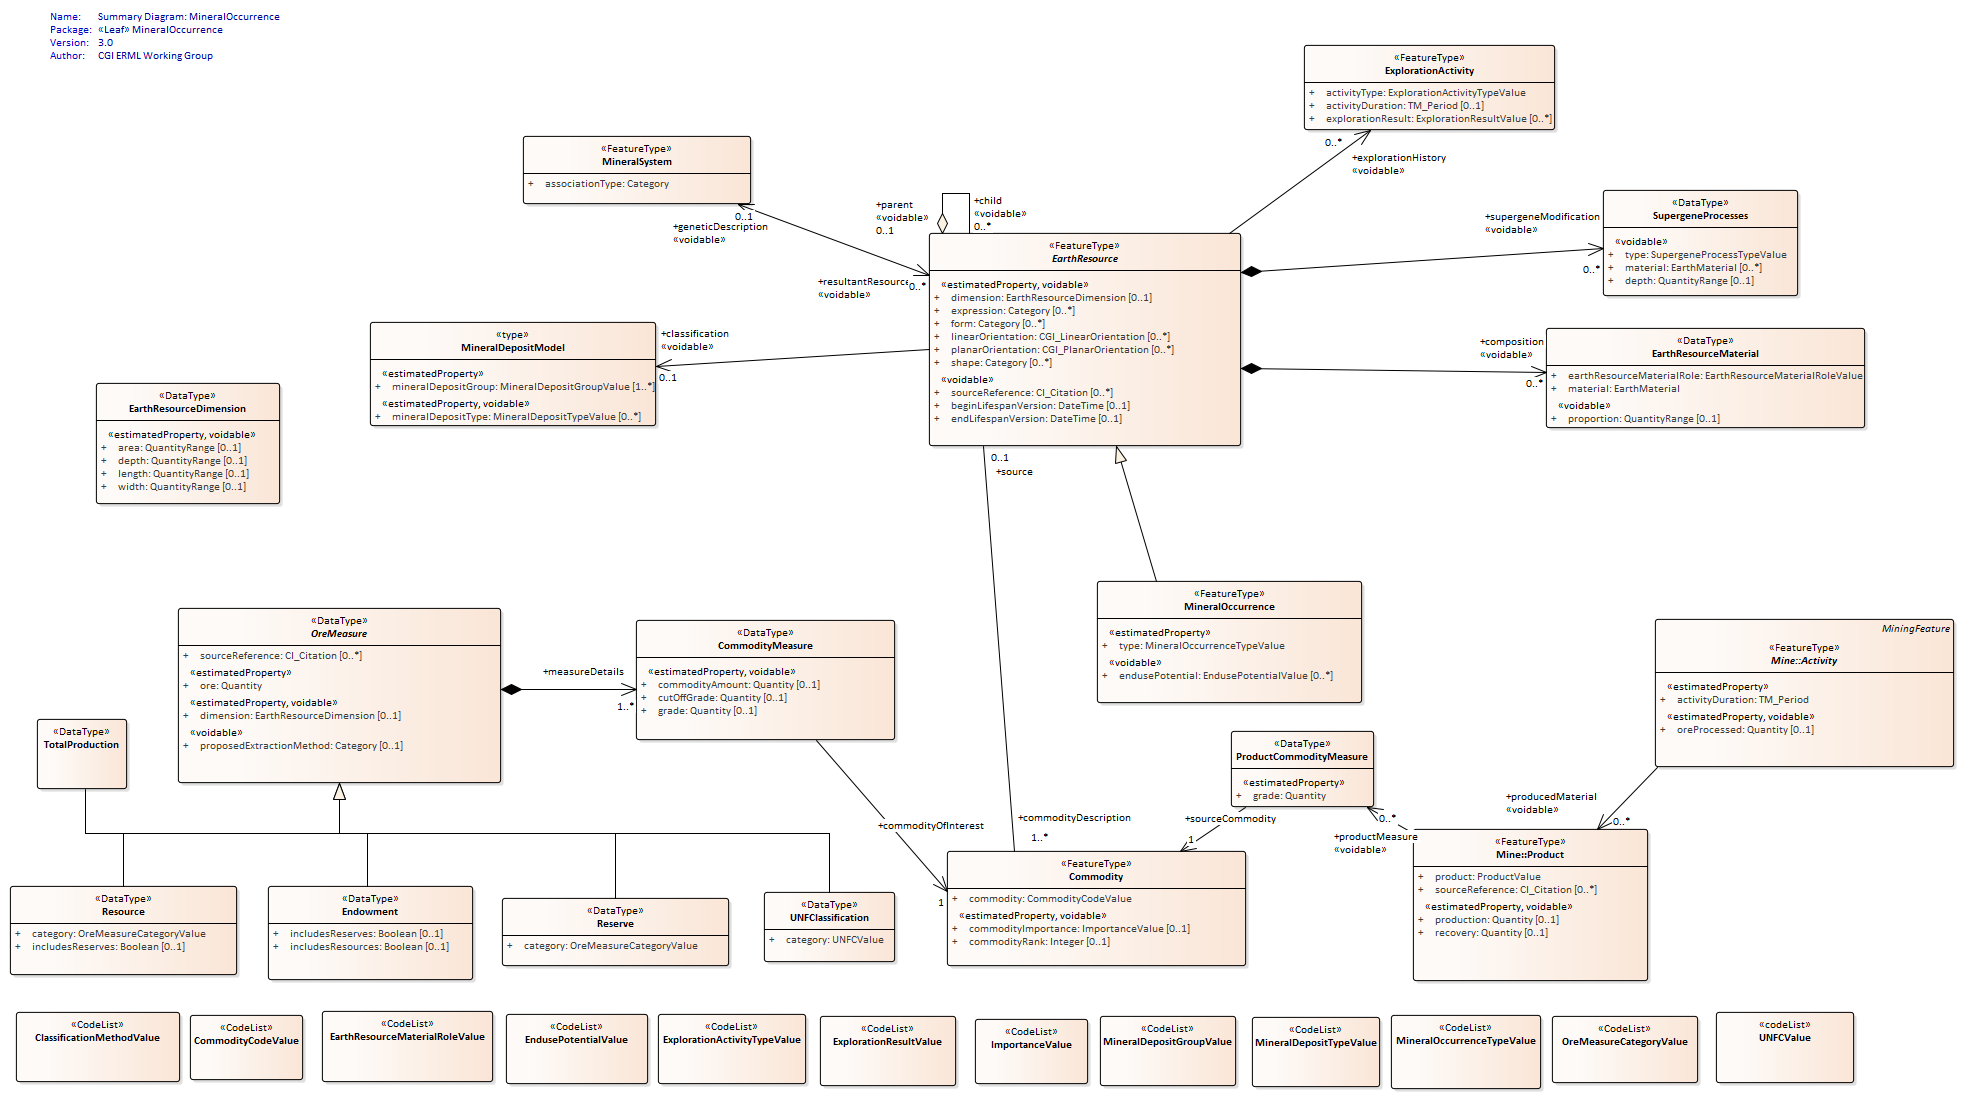
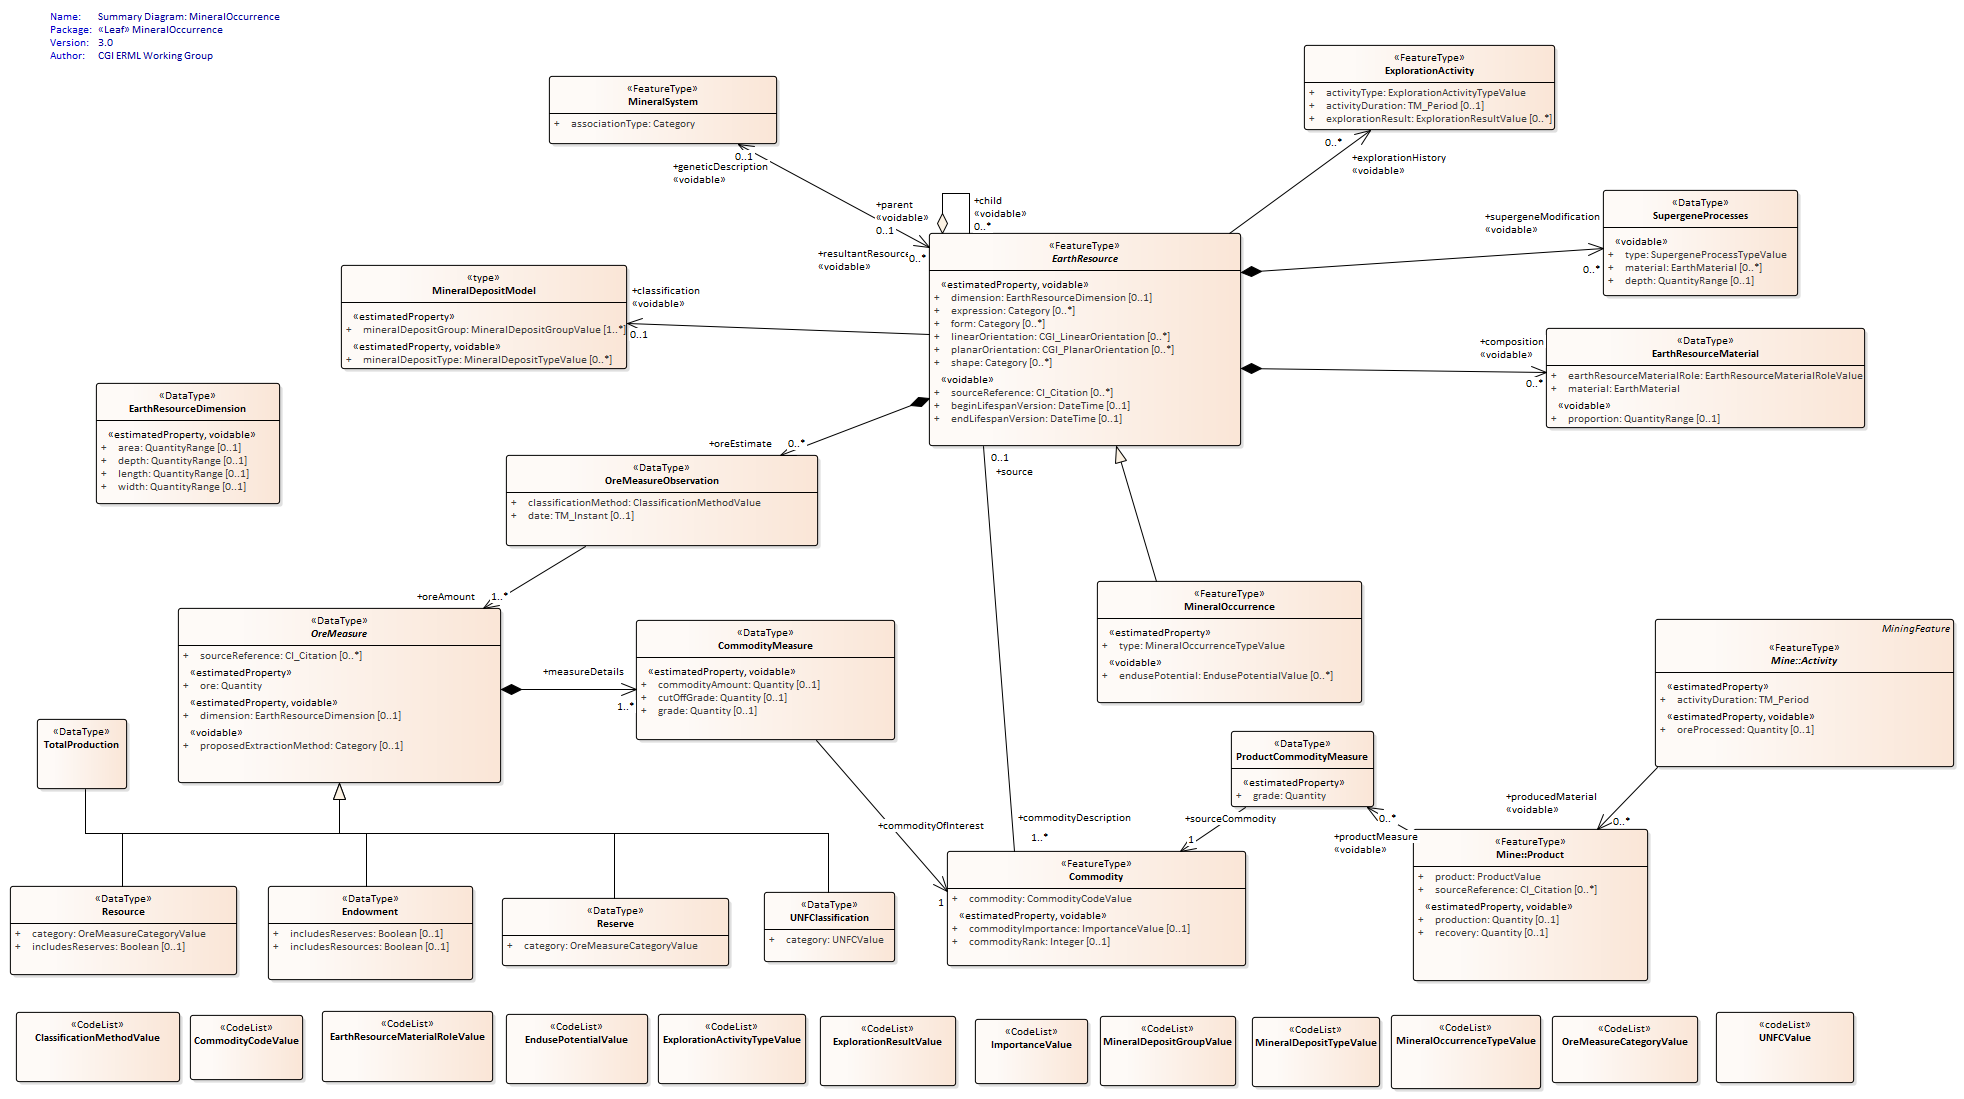
Add OreMeasureObservation to summary diagram for documentation
git-svn-id: https://svnserv.csiro.au/svn/ext/xmml/GGIC@2833 8f638a70-d4da-0310-89f2-e0c20b8c11d7

diff --git a/trunk/doc/ERML_3_Doc/EARoot/EA2/EA87.htm b/trunk/doc/ERML_3_Doc/EARoot/EA2/EA87.htm
@@ -36,6 +36,7 @@ function nameClassifier(name, separator)
 <img src="EA88.png" usemap="#EA88" border="0" />
 
 <MAP NAME="EA88">
+<area shape="rect" coords="506,455,818,546" href="EA101.htm" target="_self">
 <area shape="rect" coords="37,719,127,789" href="EA106.htm" target="_self">
 <area shape="rect" coords="1231,731,1374,807" href="EA102.htm" target="_self">
 <area shape="rect" coords="1603,190,1798,296" href="EA105.htm" target="_self">
@@ -53,8 +54,8 @@ function nameClassifier(name, separator)
 <area shape="rect" coords="636,620,895,740" href="EA96.htm" target="_self">
 <area shape="rect" coords="178,608,501,783" href="EA100.htm" target="_self">
 <area shape="rect" coords="96,383,280,504" href="EA97.htm" target="_self">
-<area shape="rect" coords="370,322,656,426" href="EA108.htm" target="_self">
-<area shape="rect" coords="523,136,751,204" href="EA95.htm" target="_self">
+<area shape="rect" coords="341,265,627,369" href="EA108.htm" target="_self">
+<area shape="rect" coords="549,76,777,144" href="EA95.htm" target="_self">
 <area shape="rect" coords="929,233,1241,446" href="EA92.htm" target="_self">
 <area shape="rect" coords="764,892,895,962" href="EA107.htm" target="_self">
 <area shape="rect" coords="1716,1012,1854,1083" href="EA120.htm" target="_self">
@@ -77,7 +78,7 @@ function nameClassifier(name, separator)
 		</tr>
 		<tr>
 			<td width="15%" class="ObjectDetailsTopic">Modified:</td>
-			<td width="85%" class="ObjectDetailsValue">29/06/2018 2:12:03 PM</td>
+			<td width="85%" class="ObjectDetailsValue">29/06/2018 2:44:20 PM</td>
 		</tr>
 		<tr style="padding-top: 10px;">
 			<td width="15%" class="ObjectDetailsTopic"><img src="../../images/plus03.gif" align="absmiddle" id="proj" onclick="parent.toggleData(this.id)" />Project:</td>

diff --git a/trunk/doc/ERML_3_Doc/EARoot/EA2/EA101.htm b/trunk/doc/ERML_3_Doc/EARoot/EA2/EA101.htm
@@ -91,7 +91,7 @@ function nameClassifier(name, separator)
 		</tr>
 		<tr id="adv01" style="display: none;">
 			<td class="ObjectDetailsTopic" style="padding-left: 18px;">Appears In:</td>
-			<td class="ObjectDetailsValue"><a href="EA61.htm">Context Diagram: EarthResource</a>, <a href="EA75.htm">Context Diagram: OreMeasure</a>, <a href="EA79.htm">Context Diagram: Resource</a>, <a href="EA83.htm">Context Diagram: TotalProduction</a></td>
+			<td class="ObjectDetailsValue"><a href="EA87.htm">Summary Diagram: MineralOccurrence</a>, <a href="EA61.htm">Context Diagram: EarthResource</a>, <a href="EA75.htm">Context Diagram: OreMeasure</a>, <a href="EA79.htm">Context Diagram: Resource</a>, <a href="EA83.htm">Context Diagram: TotalProduction</a></td>
 		</tr>
 	</table>
 	

diff --git a/trunk/doc/ERML_3_Doc/EARoot/EA3.htm b/trunk/doc/ERML_3_Doc/EARoot/EA3.htm
@@ -34,7 +34,7 @@ function nameClassifier(name, separator)
 <div class="pageHeader"></div>
 <div class="PageBody">
 	<div id="name_classifier" style="display: none;"></div>
-	<span class="ObjectTitle"><script type="text/javascript">document.write(nameClassifier("EarthResource", " : "))</script>  : Public  &lt;&lt;ApplicationSchema&gt;&gt; Package</span>
+	<span class="ObjectTitle"><script type="text/javascript">document.write(nameClassifier("EarthResource", " : "))</script>  : Public  &lt;&lt;applicationSchema&gt;&gt; Package</span>
 	<table border="0" cellpadding="0" cellspacing="0" class="ObjectDetails">
 		<tr>
 			<td width="15%" class="ObjectDetailsTopic">Created:</td>

diff --git a/trunk/doc/ERML_3_Doc/index.htm b/trunk/doc/ERML_3_Doc/index.htm
@@ -6,7 +6,7 @@
 <link href="css/ea.css" rel="stylesheet" type="text/css" />
 <script language="JavaScript" src="js/displayToc.js" type="text/javascript"></script>
 </head>
-<body onload="initLoad(this,'toc.htm','./EARoot/EA2/EA61.htm')" onresize="resizePage()">
+<body onload="initLoad(this,'toc.htm','./EARoot/EA2/EA87.htm')" onresize="resizePage()">
 <div class="IndexTitle">
 	EarthResource
 </div>
